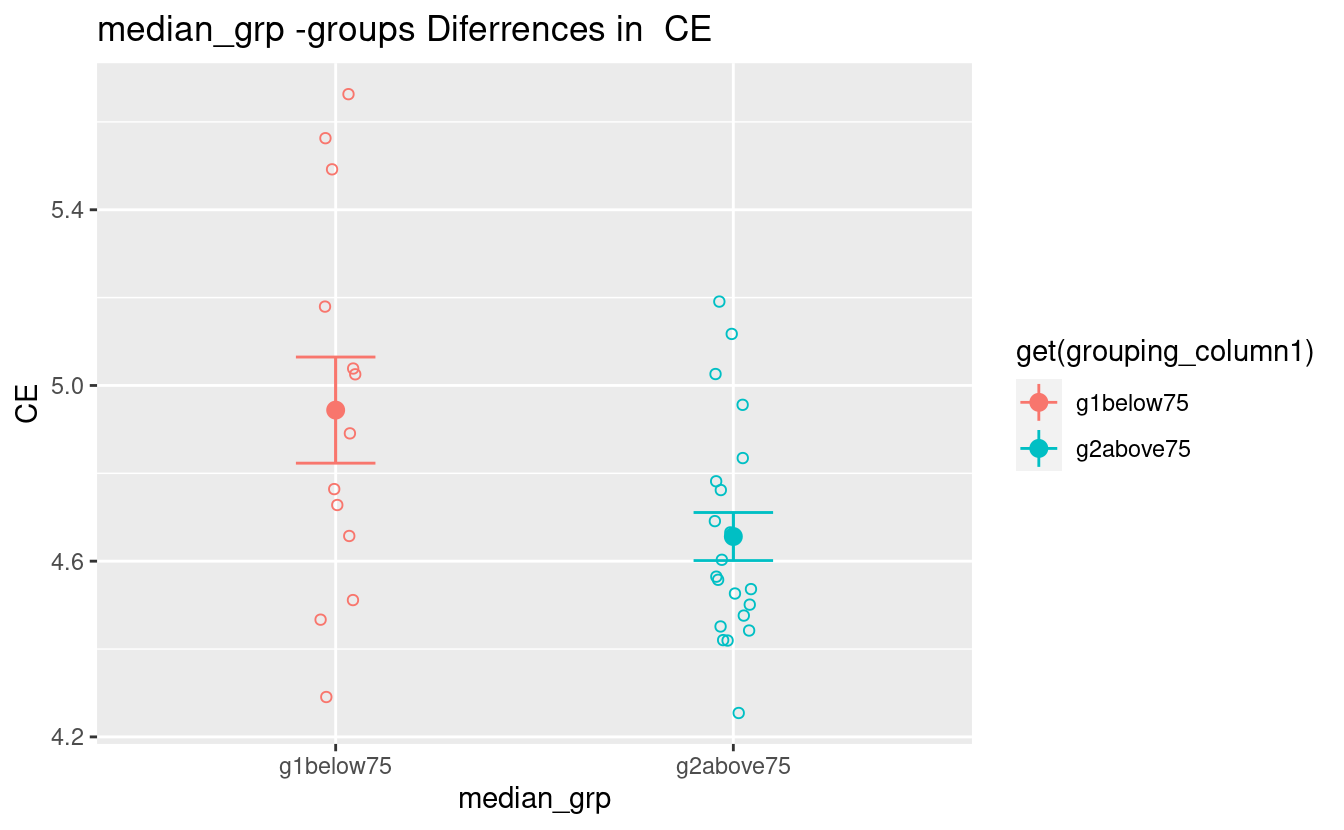
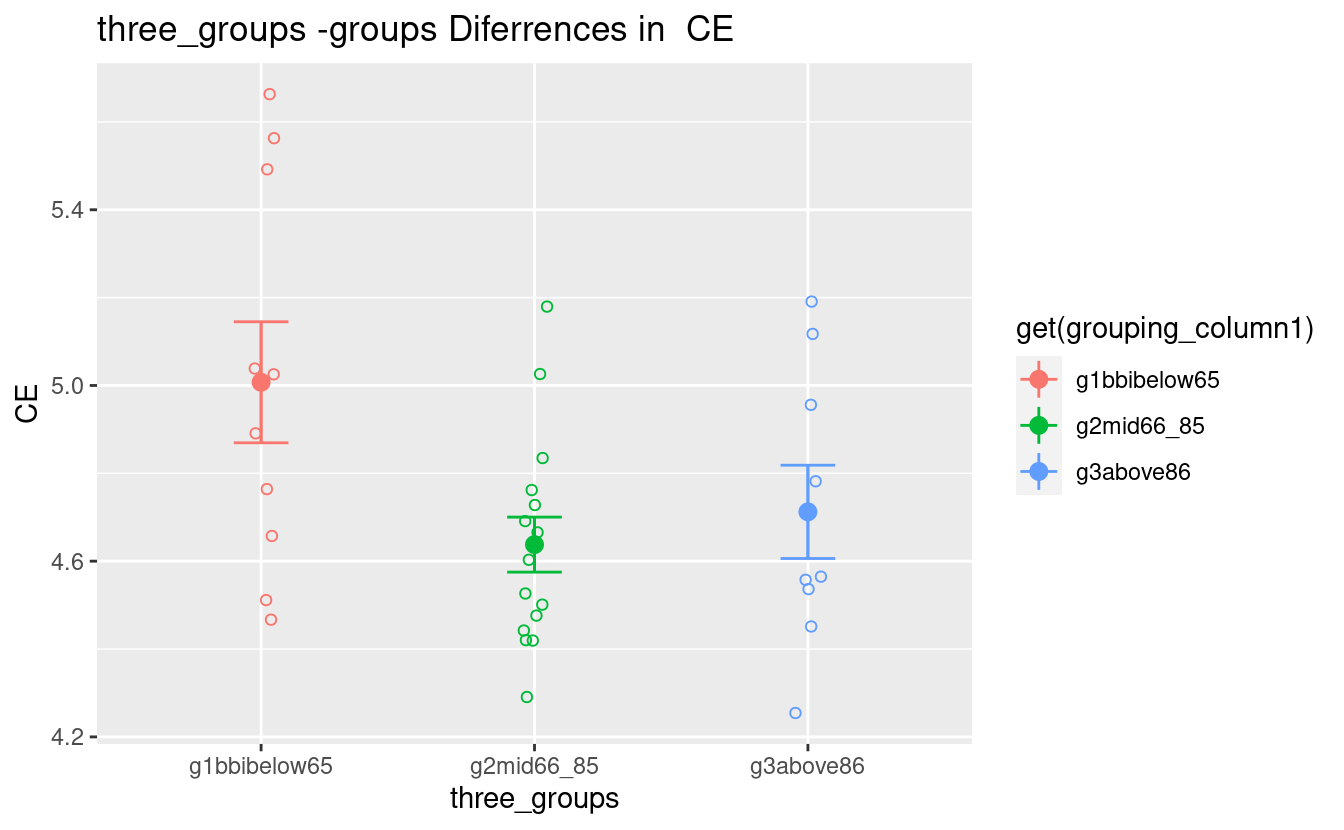
site update

diff --git a/docs/_site/2022/09/06/anovas-variables-categoricas/index.html b/docs/_site/2022/09/06/anovas-variables-categoricas/index.html
@@ -64,7 +64,7 @@
 
   <article class="article">
     
-    <span class="article-duration">5 min read</span>
+    <span class="article-duration">6 min read</span>
     
 
     <h1 class="article-title">ANOVAs Variables Categoricas</h1>
@@ -86,51 +86,106 @@
 </div>
 <h3 id="percentile-groups-differences-in-subdimensions">Percentile-groups Differences in Subdimensions</h3>
 <div class="highlight">
-<pre class='chroma'><code class='language-r' data-lang='r'><span><span class='c'>#&gt; $fea</span></span>
-<span><span class='c'>#&gt; $fea$median_grp</span></span>
-<span><span class='c'>#&gt; [1] 0.04427987</span></span>
+<pre class='chroma'><code class='language-r' data-lang='r'><span><span class='c'>#&gt; $attfoc</span></span>
+<span><span class='c'>#&gt; $attfoc$three_groups</span></span>
+<span><span class='c'>#&gt; .xg2mid66_85 </span></span>
+<span><span class='c'>#&gt;   0.02424647 </span></span>
+<span><span class='c'>#&gt; </span></span>
+<span><span class='c'>#&gt; </span></span>
+<span><span class='c'>#&gt; $attcon</span></span>
+<span><span class='c'>#&gt; $attcon$three_groups</span></span>
+<span><span class='c'>#&gt; .xg2mid66_85 </span></span>
+<span><span class='c'>#&gt;   0.02412713 </span></span>
+<span><span class='c'>#&gt; </span></span>
+<span><span class='c'>#&gt; </span></span>
+<span><span class='c'>#&gt; $fea</span></span>
+<span><span class='c'>#&gt; $fea$three_groups</span></span>
+<span><span class='c'>#&gt; .xg2mid66_85 </span></span>
+<span><span class='c'>#&gt;   0.04849844 </span></span>
 <span><span class='c'>#&gt; </span></span>
 <span><span class='c'>#&gt; </span></span>
 <span><span class='c'>#&gt; $inh</span></span>
 <span><span class='c'>#&gt; $inh$median_grp</span></span>
-<span><span class='c'>#&gt; [1] 0.01145101</span></span>
+<span><span class='c'>#&gt; [1] 0.03230483</span></span>
 <span><span class='c'>#&gt; </span></span>
 <span><span class='c'>#&gt; </span></span>
-<span><span class='c'>#&gt; [1] "fea median_grp"</span></span>
+<span><span class='c'>#&gt; $lip</span></span>
+<span><span class='c'>#&gt; $lip$three_groups</span></span>
+<span><span class='c'>#&gt; .xg2mid66_85 </span></span>
+<span><span class='c'>#&gt;   0.01570031 </span></span>
+<span><span class='c'>#&gt; </span></span>
+<span><span class='c'>#&gt; </span></span>
+<span><span class='c'>#&gt; [1] "attfoc three_groups"</span></span>
+<span><span class='c'>#&gt; [1] "attcon three_groups"</span></span>
+<span><span class='c'>#&gt; [1] "fea three_groups"</span></span>
 <span><span class='c'>#&gt; [1] "inh median_grp"</span></span>
+<span><span class='c'>#&gt; [1] "lip three_groups"</span></span>
+<span><span class='c'>#&gt; [1] "=== GROUPS DESCRIPTIVE STATISTICS ==="</span></span>
+<span><span class='c'>#&gt; <span style='color: #555555;'># A tibble: 3 × 2</span></span></span>
+<span><span class='c'>#&gt;   three_groups  mean</span></span>
+<span><span class='c'>#&gt;   <span style='color: #555555; font-style: italic;'>&lt;fct&gt;</span>        <span style='color: #555555; font-style: italic;'>&lt;dbl&gt;</span></span></span>
+<span><span class='c'>#&gt; <span style='color: #555555;'>1</span> g1bbibelow65  4.86</span></span>
+<span><span class='c'>#&gt; <span style='color: #555555;'>2</span> g2mid66_85    4.33</span></span>
+<span><span class='c'>#&gt; <span style='color: #555555;'>3</span> g3above86     4.56</span></span>
+<span><span class='c'>#&gt; [1] "=== GROUPS DESCRIPTIVE STATISTICS ==="</span></span>
+<span><span class='c'>#&gt; <span style='color: #555555;'># A tibble: 3 × 2</span></span></span>
+<span><span class='c'>#&gt;   three_groups  mean</span></span>
+<span><span class='c'>#&gt;   <span style='color: #555555; font-style: italic;'>&lt;fct&gt;</span>        <span style='color: #555555; font-style: italic;'>&lt;dbl&gt;</span></span></span>
+<span><span class='c'>#&gt; <span style='color: #555555;'>1</span> g1bbibelow65  4.78</span></span>
+<span><span class='c'>#&gt; <span style='color: #555555;'>2</span> g2mid66_85    4.31</span></span>
+<span><span class='c'>#&gt; <span style='color: #555555;'>3</span> g3above86     4.44</span></span>
+<span><span class='c'>#&gt; [1] "=== GROUPS DESCRIPTIVE STATISTICS ==="</span></span>
+<span><span class='c'>#&gt; <span style='color: #555555;'># A tibble: 3 × 2</span></span></span>
+<span><span class='c'>#&gt;   three_groups  mean</span></span>
+<span><span class='c'>#&gt;   <span style='color: #555555; font-style: italic;'>&lt;fct&gt;</span>        <span style='color: #555555; font-style: italic;'>&lt;dbl&gt;</span></span></span>
+<span><span class='c'>#&gt; <span style='color: #555555;'>1</span> g1bbibelow65  4.03</span></span>
+<span><span class='c'>#&gt; <span style='color: #555555;'>2</span> g2mid66_85    4.54</span></span>
+<span><span class='c'>#&gt; <span style='color: #555555;'>3</span> g3above86     4.38</span></span>
 <span><span class='c'>#&gt; [1] "=== GROUPS DESCRIPTIVE STATISTICS ==="</span></span>
 <span><span class='c'>#&gt; <span style='color: #555555;'># A tibble: 2 × 2</span></span></span>
 <span><span class='c'>#&gt;   median_grp  mean</span></span>
 <span><span class='c'>#&gt;   <span style='color: #555555; font-style: italic;'>&lt;fct&gt;</span>      <span style='color: #555555; font-style: italic;'>&lt;dbl&gt;</span></span></span>
-<span><span class='c'>#&gt; <span style='color: #555555;'>1</span> g1below75   4.08</span></span>
-<span><span class='c'>#&gt; <span style='color: #555555;'>2</span> g2above75   4.51</span></span>
+<span><span class='c'>#&gt; <span style='color: #555555;'>1</span> g1below75   4.95</span></span>
+<span><span class='c'>#&gt; <span style='color: #555555;'>2</span> g2above75   4.52</span></span>
 <span><span class='c'>#&gt; [1] "=== GROUPS DESCRIPTIVE STATISTICS ==="</span></span>
-<span><span class='c'>#&gt; <span style='color: #555555;'># A tibble: 2 × 2</span></span></span>
-<span><span class='c'>#&gt;   median_grp  mean</span></span>
-<span><span class='c'>#&gt;   <span style='color: #555555; font-style: italic;'>&lt;fct&gt;</span>      <span style='color: #555555; font-style: italic;'>&lt;dbl&gt;</span></span></span>
-<span><span class='c'>#&gt; <span style='color: #555555;'>1</span> g1below75   5.05</span></span>
-<span><span class='c'>#&gt; <span style='color: #555555;'>2</span> g2above75   4.54</span></span>
+<span><span class='c'>#&gt; <span style='color: #555555;'># A tibble: 3 × 2</span></span></span>
+<span><span class='c'>#&gt;   three_groups  mean</span></span>
+<span><span class='c'>#&gt;   <span style='color: #555555; font-style: italic;'>&lt;fct&gt;</span>        <span style='color: #555555; font-style: italic;'>&lt;dbl&gt;</span></span></span>
+<span><span class='c'>#&gt; <span style='color: #555555;'>1</span> g1bbibelow65  5.52</span></span>
+<span><span class='c'>#&gt; <span style='color: #555555;'>2</span> g2mid66_85    5.09</span></span>
+<span><span class='c'>#&gt; <span style='color: #555555;'>3</span> g3above86     5.41</span></span>
 <span><span class='c'>#&gt; [[1]]</span></span></code></pre>
 <p><img src="figs/subdims_percgroups_multi_lm_graph-1.png" width="700px" style="display: block; margin: auto;" /></p>
 <pre class='chroma'><code class='language-r' data-lang='r'><span><span class='c'>#&gt; </span></span>
 <span><span class='c'>#&gt; [[2]]</span></span></code></pre>
 <p><img src="figs/subdims_percgroups_multi_lm_graph-2.png" width="700px" style="display: block; margin: auto;" /></p>
+<pre class='chroma'><code class='language-r' data-lang='r'><span><span class='c'>#&gt; </span></span>
+<span><span class='c'>#&gt; [[3]]</span></span></code></pre>
+<p><img src="figs/subdims_percgroups_multi_lm_graph-3.png" width="700px" style="display: block; margin: auto;" /></p>
+<pre class='chroma'><code class='language-r' data-lang='r'><span><span class='c'>#&gt; </span></span>
+<span><span class='c'>#&gt; [[4]]</span></span></code></pre>
+<p><img src="figs/subdims_percgroups_multi_lm_graph-4.png" width="700px" style="display: block; margin: auto;" /></p>
+<pre class='chroma'><code class='language-r' data-lang='r'><span><span class='c'>#&gt; </span></span>
+<span><span class='c'>#&gt; [[5]]</span></span></code></pre>
+<p><img src="figs/subdims_percgroups_multi_lm_graph-5.png" width="700px" style="display: block; margin: auto;" /></p>
 <pre class='chroma'><code class='language-r' data-lang='r'><span></span></code></pre>
 </div>
 <h3 id="percentile-groups-differences-in-the-three-broad-dimensions">Percentile-groups Differences in the three broad dimensions</h3>
 <div class="highlight">
 <pre class='chroma'><code class='language-r' data-lang='r'><span><span class='c'>#&gt; $CE</span></span>
-<span><span class='c'>#&gt; $CE$median_grp</span></span>
-<span><span class='c'>#&gt; [1] 0.01972686</span></span>
+<span><span class='c'>#&gt; $CE$three_groups</span></span>
+<span><span class='c'>#&gt; .xg2mid66_85 </span></span>
+<span><span class='c'>#&gt;  0.009695796 </span></span>
 <span><span class='c'>#&gt; </span></span>
 <span><span class='c'>#&gt; </span></span>
-<span><span class='c'>#&gt; [1] "CE median_grp"</span></span>
+<span><span class='c'>#&gt; [1] "CE three_groups"</span></span>
 <span><span class='c'>#&gt; [1] "=== GROUPS DESCRIPTIVE STATISTICS ==="</span></span>
-<span><span class='c'>#&gt; <span style='color: #555555;'># A tibble: 2 × 2</span></span></span>
-<span><span class='c'>#&gt;   median_grp  mean</span></span>
-<span><span class='c'>#&gt;   <span style='color: #555555; font-style: italic;'>&lt;fct&gt;</span>      <span style='color: #555555; font-style: italic;'>&lt;dbl&gt;</span></span></span>
-<span><span class='c'>#&gt; <span style='color: #555555;'>1</span> g1below75   4.94</span></span>
-<span><span class='c'>#&gt; <span style='color: #555555;'>2</span> g2above75   4.66</span></span>
+<span><span class='c'>#&gt; <span style='color: #555555;'># A tibble: 3 × 2</span></span></span>
+<span><span class='c'>#&gt;   three_groups  mean</span></span>
+<span><span class='c'>#&gt;   <span style='color: #555555; font-style: italic;'>&lt;fct&gt;</span>        <span style='color: #555555; font-style: italic;'>&lt;dbl&gt;</span></span></span>
+<span><span class='c'>#&gt; <span style='color: #555555;'>1</span> g1bbibelow65  5.01</span></span>
+<span><span class='c'>#&gt; <span style='color: #555555;'>2</span> g2mid66_85    4.64</span></span>
+<span><span class='c'>#&gt; <span style='color: #555555;'>3</span> g3above86     4.71</span></span>
 <span><span class='c'>#&gt; [[1]]</span></span></code></pre>
 <p><img src="figs/dims_percgroups_multi_lm_graph-1.png" width="700px" style="display: block; margin: auto;" /></p>
 <pre class='chroma'><code class='language-r' data-lang='r'><span></span></code></pre>
